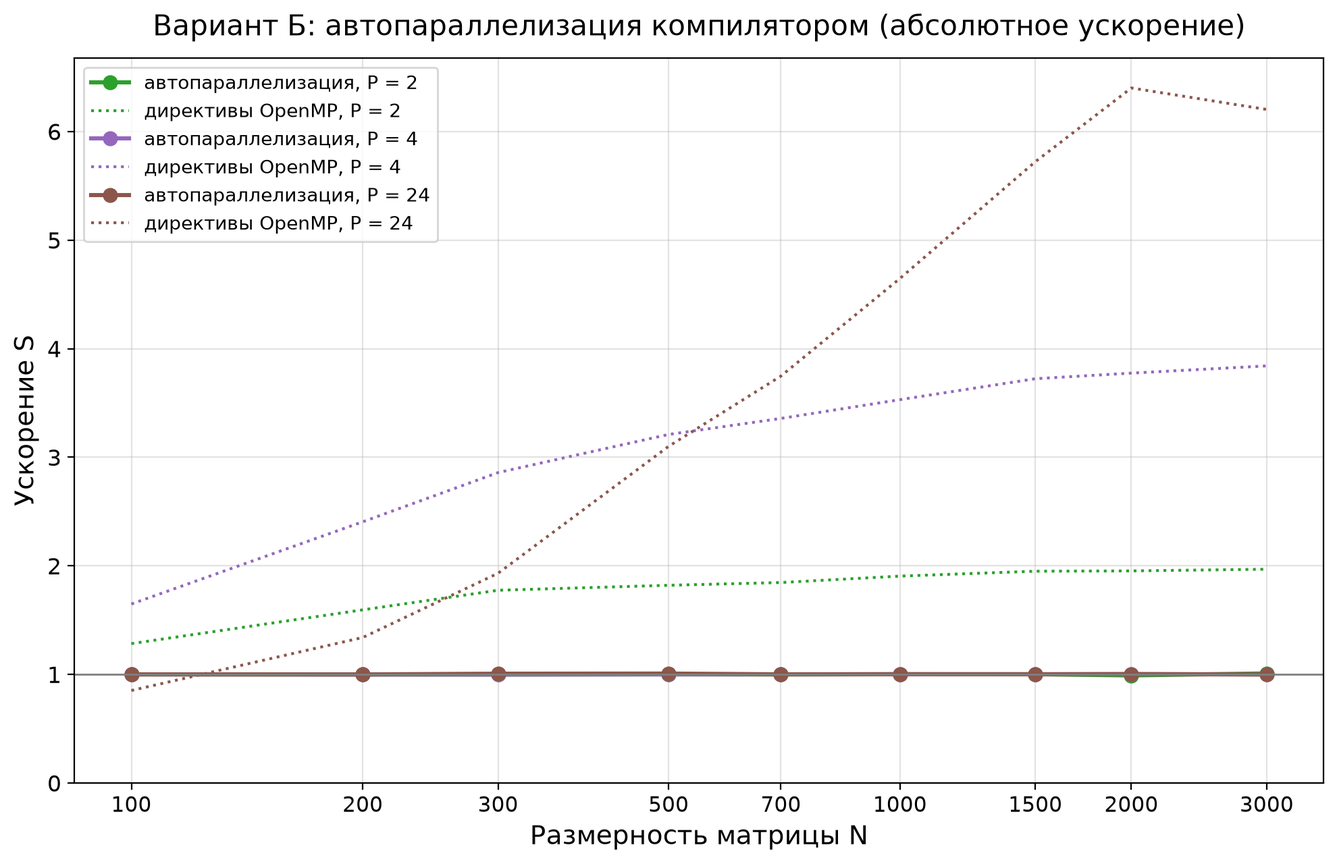
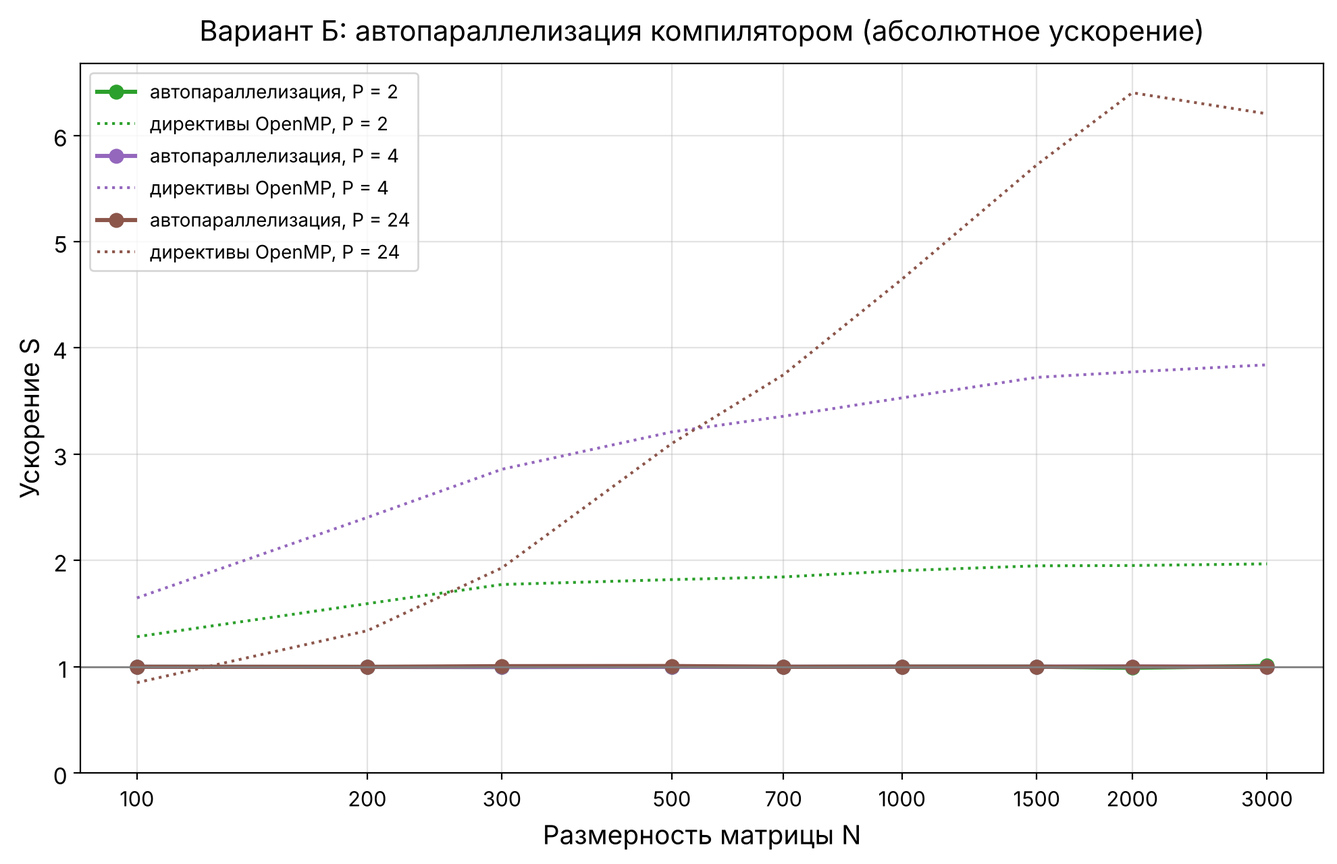
Этап 3: перепроверка замеров пользователя, результаты в README и теории
Зачем: зафиксировать итоговый прогон (03.11.2026, Xeon E5-2678 v3,
MSVC 19.51, OpenMP 2.0, b = 12) и то, что в нём не сходится.

Что: README — раздел «Результаты» по прогону пользователя (T_1 ≈ T_посл,
одинаковая погрешность, S(P), phases лучше block, совпадение с моделью
и законом Амдала при P ≤ 8, провал при P = 12, Hyper-Threading,
autopar), команды проверки провала при P = 12, журнал пп. 9–13;
THEORY, раздел 8 — новые числа, модель распределения блоков, провал
при P = 12; CLAUDE.md — статус этапа 3; графики пересобраны из CSV
пользователя (новые цвета, модель), results/model.csv.

Чем проверено: все числа сверены с results/*.csv скриптом.

Claude-Session: https://claude.ai/code/session_012rcQ2hmLFZck1f1Yp1ocyK

diff --git a/lab3_openmp/README.md b/lab3_openmp/README.md
@@ -2,8 +2,9 @@
 
 > «Используем OpenMP. Используем лишь автоматическое распараллеливание. Результат: график зависимости ускорения.»
 
-Статус: **программа, тесты, сверка с этапами 1–2, скрипты замеров и графиков готовы.** Предварительный прогон
-сделан в облачном контейнере (4 vCPU). Осталось: замеры на компьютере пользователя (12 ядер) и отчёт.
+Статус: **программа, тесты, сверка с этапами 1–2, скрипты замеров и графиков готовы; замеры на компьютере
+пользователя сделаны (03.11.2026, 12 ядер, MSVC).** Осталось: отчёт MSVC об автопараллелизации (пересборка,
+журнал, п. 10), проверка причины провала при $P = 12$ (п. 11), отчёт.
 
 ## Состав
 
@@ -95,24 +96,63 @@ lab3_openmp/build/cholesky_omp -n 1000 2000 -b 16 -t 12 -m block phases
 или все логические процессоры), `-m point|block|phases|all` — режимы (по умолчанию `block phases`), `-r` — число
 замеров, `--csv`, `--dump FILE`, `--info` (ключи, компилятор, версия OpenMP, число потоков).
 
-## Результаты (предварительно, облачный контейнер)
+## Результаты (компьютер пользователя, 03.11.2026)
 
-Облачный контейнер: 4 vCPU (виртуальная машина, Xeon с AVX-512), Linux, GCC 13, OpenMP 4.5; $b = 32$ (подобран).
-Для отчёта — перезапустить на компьютере пользователя.
+Intel Xeon E5-2678 v3 (12 ядер / 24 логических процессора), Windows 11, MSVC 19.51, OpenMP 2.0 (`/openmp`; CMake
+передаёт его как `-openmp` — это тот же ключ). Таблицы — `results/*.csv`, графики — `results/*.png`.
 
-- **Вариант А, `block`:** $S_{отн}$ растёт с $N$: при $P = 4$ — 0,96 ($N = 100$), 2,99 ($N = 1000$), 3,59
-  ($N = 3000$). При малых $N$ работы на шаг $j$ мало и накладные расходы на запуск потоков сравнимы с ней.
-- **`phases` лучше `block`** при $N \geq 200$ (кроме помехи при $N = 3000$, журнал, п. 8): при $P = 4$ и $N = 1000$ — 3,24 против 2,99, при $N = 2000$ — 3,64
-  против 3,44 (последовательная часть меньше).
-- **$T_1 \approx T_{посл}$:** программа OpenMP на одном потоке не медленнее последовательной (отношение 0,99–1,00),
-  поэтому $S_{отн} \approx S_{абс}$.
-- **Закон Амдала** (подгонка по $P \leq 4$): у `block` эффективная доля последовательной работы $\alpha$ = 12 %
-  ($N = 1000$), 6 % ($N = 2000$), 3,9 % ($N = 3000$) — убывает с ростом $N$, как и предсказывает теория
-  ($\alpha \sim 1{,}5 b/N$ плюс накладные расходы).
-- **Вариант Б:** $S_{абс} = 0{,}99 \dots 1{,}01$ при всех $N$ и $P$. GCC распараллелил только цикл генерации тестовой
-  матрицы (`make_test_matrix`, вне замера); в разложении все циклы отвергнуты: «между итерациями есть зависимость
-  по данным» (13), «не удалось проанализировать зависимости» (8) — см. `results/autopar_report.txt`.
-- **Погрешность** одинакова во всех сборках и при любом $P$ (побитное совпадение проверено тестами).
+- **$b = 12$** (подобран по `seq` при $N = 1000, 2000$): на 4–5 % быстрее $b = 16$ этапа 2 (на этапе 2 $b = 12$ не
+  перебирался). `seq` при $b = 16$ — 0,119 и 0,945 с против 0,124 и 0,990 с у сборки «с флагом» этапа 2: отличие
+  4–5 % (другой прогон; ядро и ключи те же).
+- **$T_1 \approx T_{посл}$:** $T_{посл} / T_1$ = 0,99–1,00 у `block` и 0,988–0,994 у `phases`, поэтому
+  $S_{отн} \approx S_{абс}$.
+- **Погрешность** при каждом $N$ одна и та же во всех сборках, при всех $P$ и в обеих стратегиях
+  ($8{,}9 \cdot 10^{-16}$ при $N = 100$ … $4{,}6 \cdot 10^{-14}$ при $N = 3000$).
+- **`block`:** наибольшее ускорение — при $P = 8$: $S_{отн}$ = 1,88 ($N = 100$), 6,07 ($N = 1000$), 6,97 ($N = 2000$),
+  7,08 ($N = 3000$). **`phases` лучше:** при $P = 8$ — при всех $N \geq 200$, например 6,73 / 7,44 / 7,45
+  при $N = 1000 / 2000 / 3000$.
+- **До $P = 8$ ускорение ограничивает только алгоритм.** Модель распределения блоков (`static_schedule_speedup`
+  в `plot_speedup.py`: время операции пропорционально числу её операций, накладных расходов нет, `schedule(static)`
+  отдаёт потоку до $\lceil m/P \rceil$ из $m$ блоков шага) совпадает с замерами в пределах 4 % (`results/model.csv`):
+  `block`, $N = 3000$: $P = 4$ — 3,86 и 3,86, $P = 8$ — 7,36 и 7,08. Закон Амдала по $P \leq 8$ даёт $\alpha$ =
+  4,5 / 2,1 / 1,3 % ($N = 1000 / 2000 / 3000$) — столько же, сколько у модели (4,4 / 2,0 / 1,3 %). Это больше
+  $1{,}5 b / N$ (1,8 / 0,9 / 0,6 %): к последовательной части добавляется неравномерность — на последних шагах блоков
+  меньше, чем потоков, и $\lceil m/P \rceil$ округляет порцию вверх.
+- **При $P = 12$ (все физические ядра) ускорение ниже, чем при $P = 8$**, при всех $N \geq 1000$: `block`, $N = 3000$ —
+  6,44 против 7,08; это 61 % от модели (10,5), у `phases` — 60 %. Суммарная производительность при $N \geq 1500$
+  и любом $P$ от 8 до 24 почти одна и та же — 17–22 GFLOP/s. Причина не в алгоритме; что проверено и что осталось — журнал, п. 11.
+  Подгонка Амдала по $P \leq 12$ (`results/amdahl.csv`: 5,6 / 3,5 / 2,9 %) завышена этой точкой.
+- **$P > 12$ (Hyper-Threading):** ускорения не прибавляется (6,2–6,8 при $N = 3000$; лучшее — `phases`, $N = 2000$,
+  $P = 24$: 7,67); при малых $N$ оно падает, при $N = 100$, $P = 24$ — ниже 1 (0,86).
+- **Вариант Б (MSVC `/Qpar`):** $S_{абс}$ = 0,99–1,01 при $P = 2, 4, 24$ — ускорения нет. Отчёт компилятора в этом
+  прогоне не записался (журнал, п. 10), что именно распараллелено — по пересборке.
+
+Предварительный прогон в облачном контейнере (4 vCPU, GCC 13, $b = 32$; не для отчёта): `block` при $P = 4$ — 2,99
+($N = 1000$), 3,59 ($N = 3000$); автопараллелизация GCC — 0,99–1,01, распараллелен только цикл генерации тестовой
+матрицы (`make_test_matrix`, вне замера), в разложении все циклы отвергнуты: «между итерациями есть зависимость по
+данным» (13), «не удалось проанализировать зависимости» (8).
+
+### Проверка провала при P = 12
+
+На компьютере пользователя, в PowerShell из корня репозитория (каждая команда — около 10 с). Во время первых двух
+открыть «Диспетчер задач» → «Производительность» → «ЦП» и записать «Скорость» (текущую частоту):
+
+```powershell
+lab3_openmp\build\Release\cholesky_omp.exe -n 3000 -b 12 -t 8 -r 10
+```
+```powershell
+lab3_openmp\build\Release\cholesky_omp.exe -n 3000 -b 12 -t 12 -r 10
+```
+То же при $P = 12$, но потокам разрешены только логические процессоры 0, 2, …, 22 — по одному на физическое ядро:
+```powershell
+$p = Start-Process lab3_openmp\build\Release\cholesky_omp.exe "-n 3000 -b 12 -t 12 -r 10" -NoNewWindow -PassThru; $p.ProcessorAffinity = 0x555555; $p.WaitForExit()
+```
+```powershell
+powercfg /getactivescheme
+```
+Как читать: частота при $P = 12$ заметно ниже, чем при $P = 8$, — ограничение мощности или охлаждения (свойство
+платформы, в отчёт); с маской время $P = 12$ заметно меньше — Windows ставила два потока на одно ядро; ни то
+ни другое — фоновая нагрузка (посмотреть в «Диспетчере задач», какие процессы заняты).
 
 ## Что войдёт в отчёт (часть 3)
 
@@ -149,5 +189,28 @@ OpenMP), анализ параллелизма алгоритма (какие ц
    от этого почти не зависит.
 8. **Помеха в замере контейнера:** у `phases` при $N = 3000$, $P = 4$ в замере 0,379 с ($S = 3{,}39$), повторный
    запуск дважды — 0,343 с ($S = 3{,}75$): все три замера (~1,1 с) попали на замедление виртуальной машины.
-9. **Не сделано:** замеры на компьютере пользователя (MSVC: проверить `/Qpar` — что распараллелено и действует ли
-   `OMP_NUM_THREADS`), отчёт.
+9. **Замеры на компьютере пользователя** (03.11.2026): 12 ядер, MSVC 19.51, OpenMP 2.0, $b = 12$; сверка и тесты
+   прошли, погрешность одинакова во всех сборках и при всех $P$. Результаты — раздел «Результаты».
+10. **Отчёт `/Qpar` не записался** («не найден» в `results/autopar_report.txt`). Разбор ждал строку в формате cl
+    `cholesky.cpp(14) : info C5002: … reason '1000'`, а MSBuild пишет позицию как `(строка,столбец)` и добавляет имя
+    проекта, русская версия MSVC — свой текст и кавычки; кроме того, при минимальной подробности (так `cmake --build`
+    вызывает MSBuild) информационные сообщения компилятора могут не выводиться. Исправлено: `run_all.py` собирает
+    с `--verbose` (MSBuild — нормальная подробность) и `VSLANG=1033` (сообщения MSVC на английском), на экран выводит
+    только конец журнала; разбор принимает оба формата и берёт код причины как последнее число сообщения; коды
+    расшифрованы по таблице MSVC; отчёт пишется сразу после сборки (`bench.py --report-only`), поэтому его обновляет
+    и `run_all.py --skip-bench`. Проверено тестами на образцах строк обоих форматов (2 намеренные порчи разбора
+    ловятся); на MSVC — ждёт пересборки у пользователя.
+11. **Провал при $P = 12$.** Модель распределения блоков (`static_schedule_speedup`) описывает замеры при $P \leq 8$
+    с точностью 4 %, при $P = 12$ замеры — 60–71 % от неё; суммарная производительность при $P = 8 \dots 24$ почти
+    постоянна (17–22 GFLOP/s при $N \geq 1500$). Не память: при $N = 1000$ матрица (8 МБ) целиком в L3, а провал тот же; трафик
+    из L3 — около $N^3/(6b)$ чисел за разложение, единицы ГБ/с. Не разброс замеров: медиана выше минимума
+    на 2–13 %, а провал — 30–40 %, и он есть при всех $N \geq 1000$ в обеих стратегиях. Гипотезы: (а) частота
+    процессора падает при нагрузке на все ядра (ограничение мощности или охлаждения платы); (б) Windows ставит два
+    потока на одно физическое ядро или делит ядро с фоновым процессом. При `schedule(static)` и барьере на каждом
+    из $p = 250$ шагов ($N = 3000$) любой медленный поток задерживает весь шаг. Проверка — раздел «Проверка провала
+    при P = 12»; результат вписать сюда.
+12. **Графики по 9 значениям $P$:** соседние $P = 8$ и $P = 12$ были почти одного цвета — палитра `tab10`; $P$ больше
+    числа ядер — пунктиром; на графике эффективности — модель распределения блоков (до числа ядер: она считает
+    потоки равноскоростными), таблица `results/model.csv`. Модель проверена тестами (границы $S \leq P$,
+    монотонность, один блок, две блочные строки у `block`; замена наибольшей порции на среднюю ловится).
+13. **Не сделано:** отчёт `/Qpar` (п. 10), причина провала при $P = 12$ (п. 11), отчёт.

diff --git a/lab3_openmp/THEORY.md b/lab3_openmp/THEORY.md
@@ -219,8 +219,8 @@ $p - j - 1$ блоков.
 
 ## 8. Что получилось в нашей реализации
 
-Числа — предварительный прогон в облаке (4 vCPU, GCC 13, OpenMP 4.5, $b = 32$); после прогона на компьютере
-из отчёта (12 ядер, MSVC, OpenMP 2.0) обновить. Подробнее — `README.md`, раздел «Результаты».
+Числа — компьютер из отчёта (Xeon E5-2678 v3, 12 ядер / 24 логических процессора, Windows 11, MSVC 19.51,
+OpenMP 2.0, $b = 12$), 03.11.2026. Подробнее — `README.md`, раздел «Результаты».
 
 **Директивы.** Всё распараллеливание — три директивы `#pragma omp parallel for schedule(static)`:
 ```cpp
@@ -242,15 +242,30 @@ for (int ib = jb + 1; ib < p; ++ib) solve_block(ib, jb);
 **Проверка.** При любом $P$ (в тестах 1, 2, 3, 5, 8, в том числе $P$ больше числа блоков) $L$ совпадает с однопоточной
 побитно, `block` и `phases` — побитно между собой, сборка `seq` — побитно с `omp`; с эталоном этапа 1 — до $10^{-13}$.
 
-**Ускорение.** При $P = 4$: `block` — 0,96 ($N = 100$), 2,99 ($N = 1000$), 3,59 ($N = 3000$); `phases` — 3,24 при
-$N = 1000$ и 3,64 при $N = 2000$. При малых $N$ на шаг $j$ приходится мало работы, и ускорение около 1.
+**Ускорение.** Наибольшее — при $P = 8$: `block` — 1,88 ($N = 100$), 6,07 ($N = 1000$), 7,08 ($N = 3000$); `phases`
+лучше — 6,73 и 7,45 при $N = 1000$ и $3000$. При малых $N$ на шаг $j$ приходится мало работы, и ускорение мало.
+$T_1$ и $T_{посл}$ различаются не больше чем на 1,2 %, поэтому $S_{отн} \approx S_{абс}$.
 
-**Закон Амдала** (подгонка по $P \leq 4$): у `block` $\alpha$ = 12 % ($N = 1000$), 6 % ($N = 2000$), 3,9 % ($N = 3000$);
-у `phases` — 8 % и 3,8 % ($N = 1000$, $2000$). Это больше теоретических $1{,}5 b/N$ (4,8 %, 2,4 %, 1,6 %): в оценку
-по замерам входят накладные расходы на запуск областей, дисбаланс на последних шагах (итераций меньше, чем потоков)
-и ограничения памяти. Но убывание $\alpha$ с ростом $N$ и преимущество `phases` — как в теории.
+**Модель распределения блоков.** Если время операции над блоком пропорционально числу её операций и накладных
+расходов нет, время шага $j$ — последовательная часть плюс самая большая порция: `schedule(static)` отдаёт потоку
+до $\lceil m/P \rceil$ из $m$ одинаковых блоков. Такая модель (`plot_speedup.py::static_schedule_speedup`) совпадает
+с замерами при $P \leq 8$ в пределах 4 %: при $N = 3000$, $P = 4$ — 3,86 и 3,86, при $P = 8$ — 7,36 и 7,08.
 
-**Автопараллелизация (GCC, `-ftree-parallelize-loops=P`).** Ускорение 0,99–1,01. Компилятор распараллелил один цикл —
+**Закон Амдала.** По $P \leq 8$ у `block` $\alpha$ = 4,5 / 2,1 / 1,3 % ($N = 1000 / 2000 / 3000$) — столько же, сколько
+у модели (4,4 / 2,0 / 1,3 %), и больше теоретической последовательной доли $1{,}5 b/N$ (1,8 / 0,9 / 0,6 %): эффективная
+$\alpha$ включает и неравномерность распределения — на последних шагах блоков меньше, чем потоков, а порция
+$\lceil m/P \rceil$ округляется вверх. Убывание $\alpha$ с ростом $N$ и преимущество `phases` — как в теории.
+
+**Провал при $P = 12$.** На всех 12 ядрах ускорение меньше, чем на 8 (`block`, $N = 3000$: 6,44 против 7,08), — 60–71 %
+от модели; при $P = 8 \dots 24$ суммарная производительность почти постоянна (17–22 GFLOP/s при $N \geq 1500$). Это не
+алгоритм и не память (при $N = 1000$ матрица целиком в L3, провал тот же). Кандидаты — падение частоты при нагрузке
+на все ядра и потоки, которые Windows ставит на одно физическое ядро; при барьере на каждом шаге $j$ самый медленный
+поток задерживает всех (проверка — `README.md`, журнал, п. 11). При $P > 12$ (Hyper-Threading) ускорения не
+прибавляется: два потока делят одно ядро.
+
+**Автопараллелизация.** MSVC (`/Qpar`): ускорение 0,99–1,01 при $P = 2, 4, 24$; что распараллелено — по отчёту
+компилятора (`results/autopar_report.txt`, после пересборки). GCC (`-ftree-parallelize-loops=P`, прогон в облаке):
+ускорение 0,99–1,01. Компилятор распараллелил один цикл —
 заполнение тестовой матрицы в `make_test_matrix` (вне замера). Остальные циклы отвергнуты (дамп прохода
 `parloops`): 13 раз «зависимость по данным между итерациями», 8 раз «не удалось проанализировать зависимости»,
 1 раз «скалярная зависимость между итерациями». Вывод: для этого алгоритма автоматического распараллеливания без

diff --git a/CLAUDE.md b/CLAUDE.md
@@ -24,8 +24,9 @@
 сделаны (03.11.2026, $b = 16$ подобран), черновик отчёта генерируется `lab2_cpp/report/make_report.py` и перепроверен;
 ждёт ответов преподавателя на вопросы 1–3 (`lab2_cpp/README.md`, разделы «Результаты», «Черновик отчёта», «Журнал»).
 Этап 3: программа (сборки `seq`, `omp` с двумя стратегиями директив, `autopar`), тесты, сверка, скрипты замеров
-и графиков готовы, есть предварительный прогон в контейнере; осталось — замеры на компьютере пользователя и отчёт
-(`lab3_openmp/README.md`, «Журнал»). Этап 4 не начат: в папке только `README.md` и `THEORY.md`.
+и графиков готовы, замеры на компьютере пользователя сделаны (03.11.2026, $b = 12$) и перепроверены; осталось —
+отчёт MSVC об автопараллелизации (пересборка), проверка провала ускорения при $P = 12$ и отчёт
+(`lab3_openmp/README.md`, «Журнал», пп. 10–13). Этап 4 не начат: в папке только `README.md` и `THEORY.md`.
 **Не начинать реализацию следующего этапа, пока пользователь явно не попросит.**
 
 ## Структура
